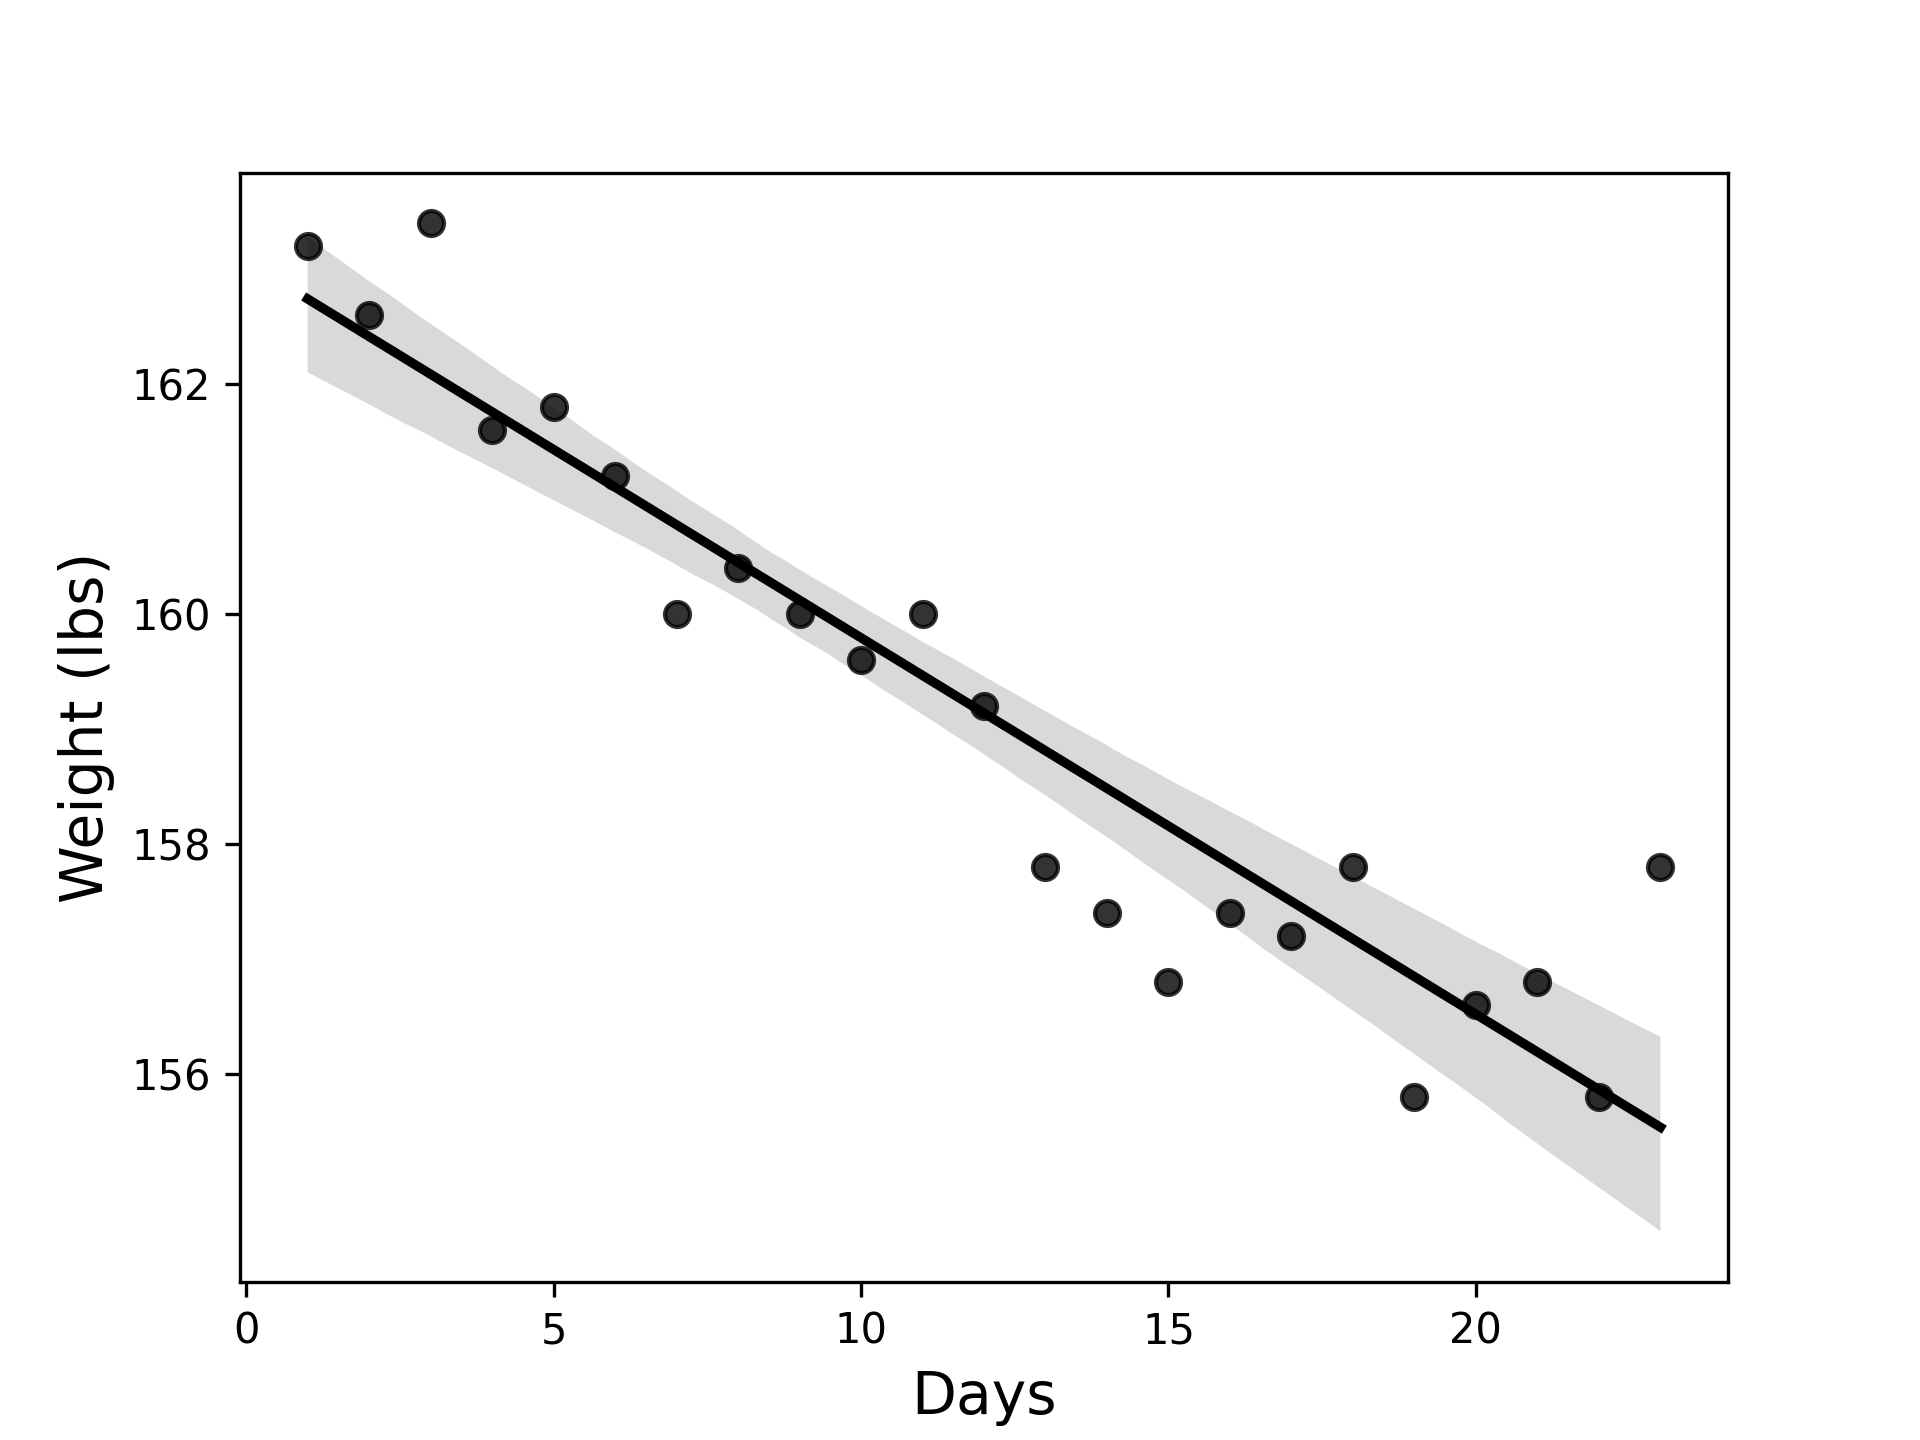
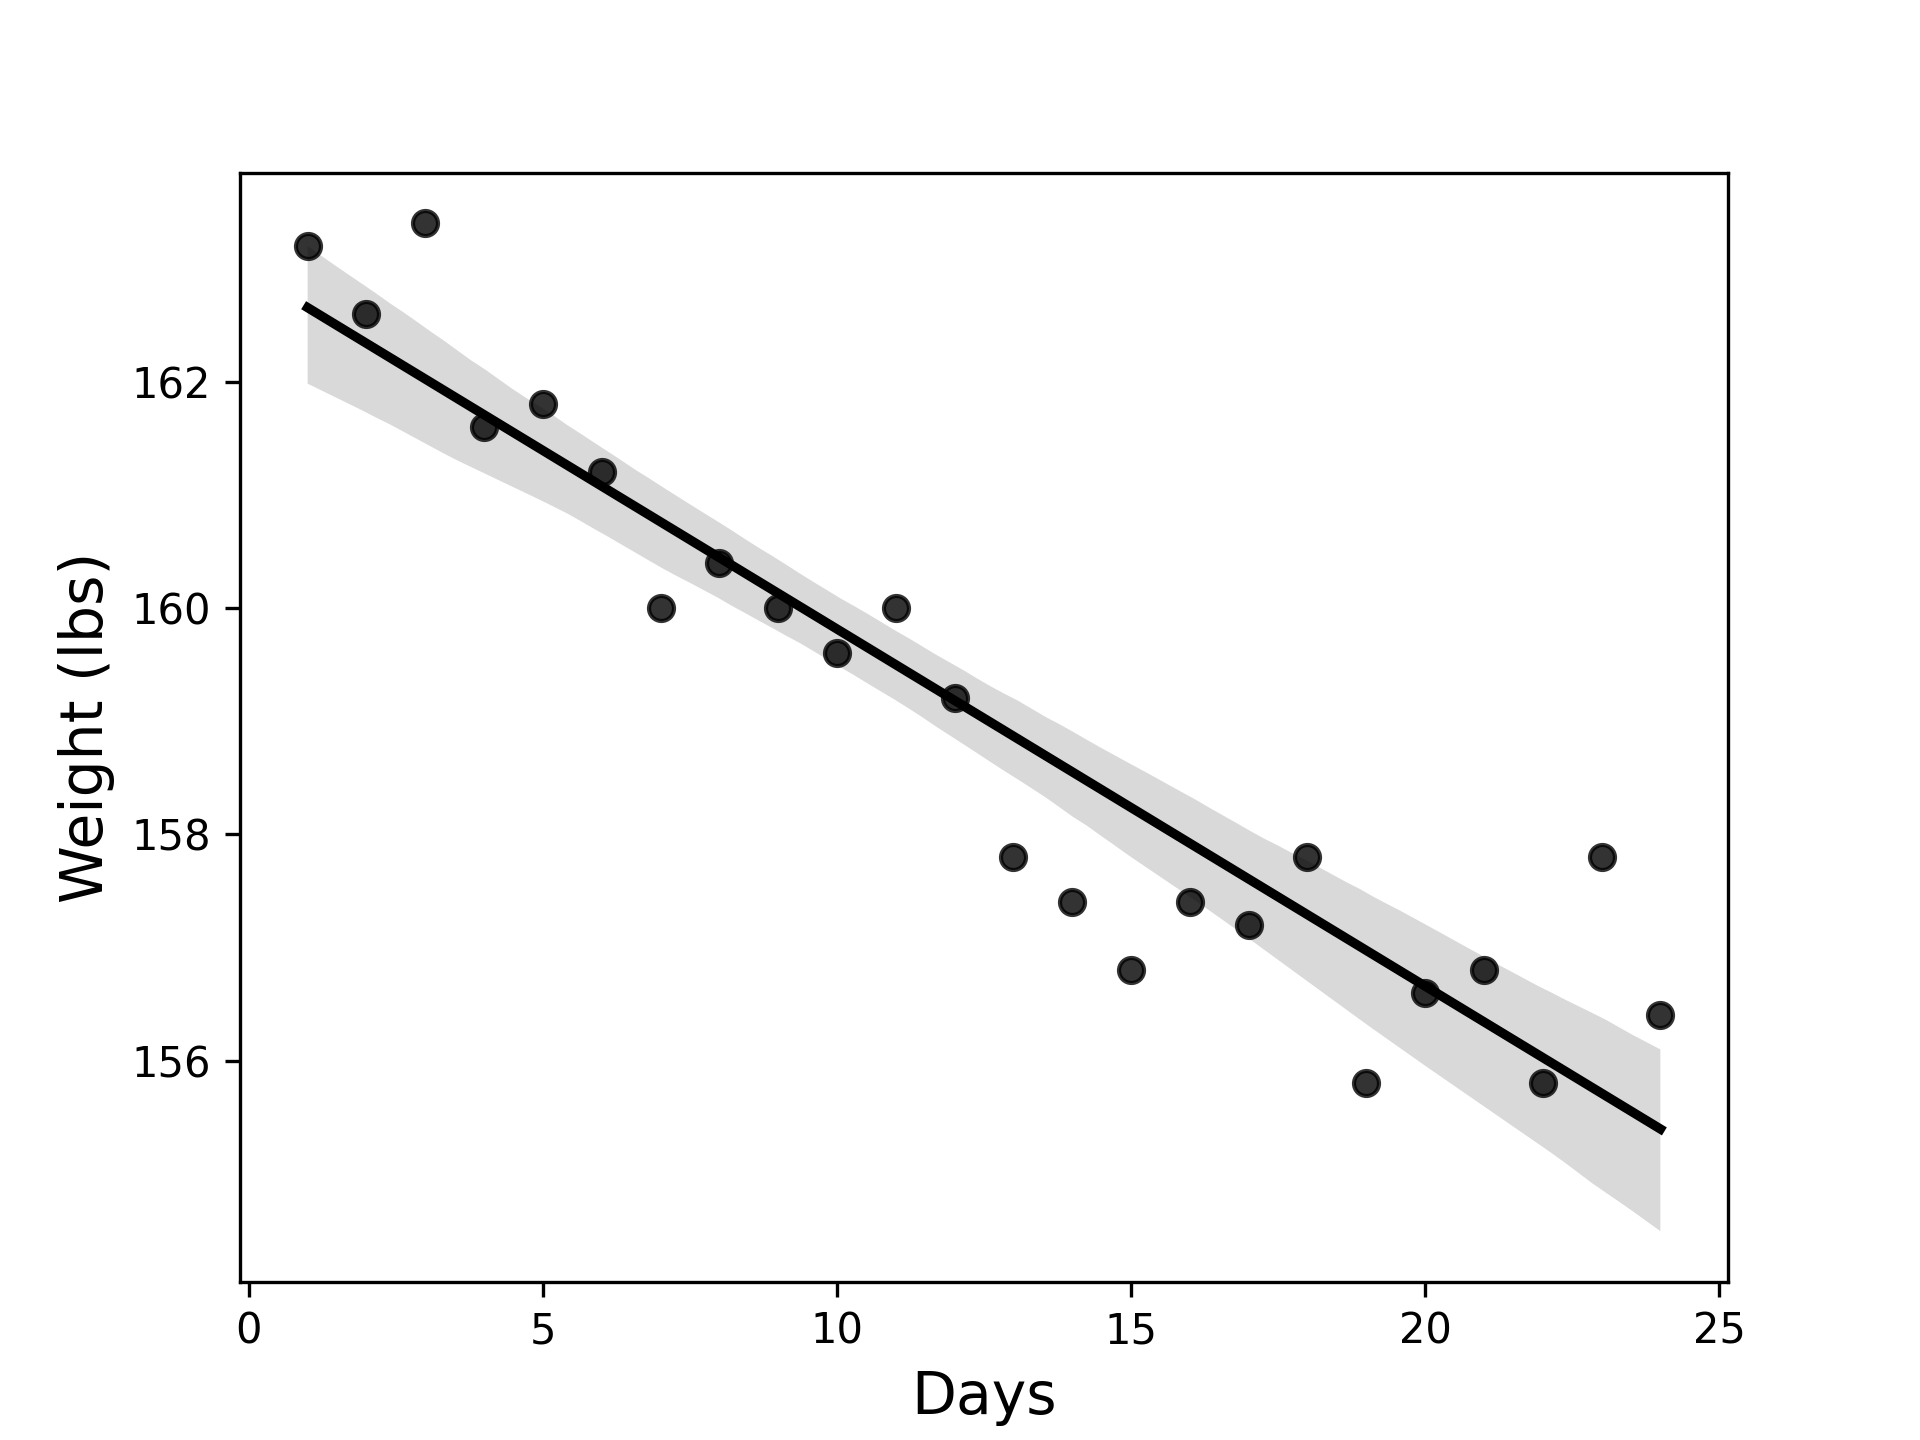
Updated weight.py and weight.png

diff --git a/Weight.py b/Weight.py
@@ -6,9 +6,9 @@ import seaborn as sns
 
 # Creates an array of elapsed days and assigns it to days_elapsed
 days_elapsed = np.array([1, 2, 3 ,4, 5, 6, 7, 8, 9, 10,11,12,13, 14,15,16,17,18,
-                         19, 20,21,22,23]).reshape(-1,1)
+                         19, 20,21,22,23,24]).reshape(-1,1)
 weight = np.array([163.2, 162.6, 163.4, 161.6, 161.8, 161.2, 160.0, 160.4, 160.0, 159.6,160.0,159.2,157.8, 157.4,156.8,157.4,
-                   157.2, 157.8,155.8, 156.6,156.8,155.8,157.8])
+                   157.2, 157.8,155.8, 156.6,156.8,155.8,157.8,156.4])
 
 # Instantiates a LinearRegression model and fits it to the above arrays
 model = sklearn.linear_model.LinearRegression().fit(days_elapsed,weight)
